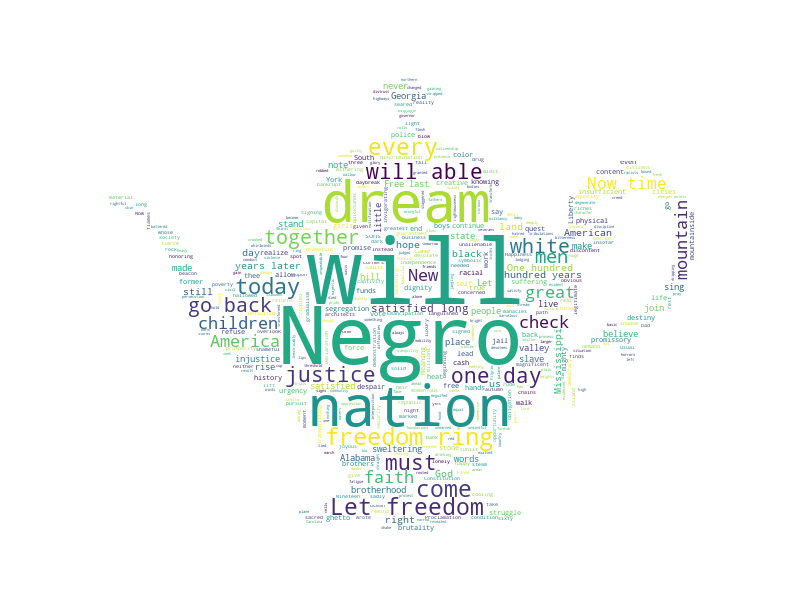
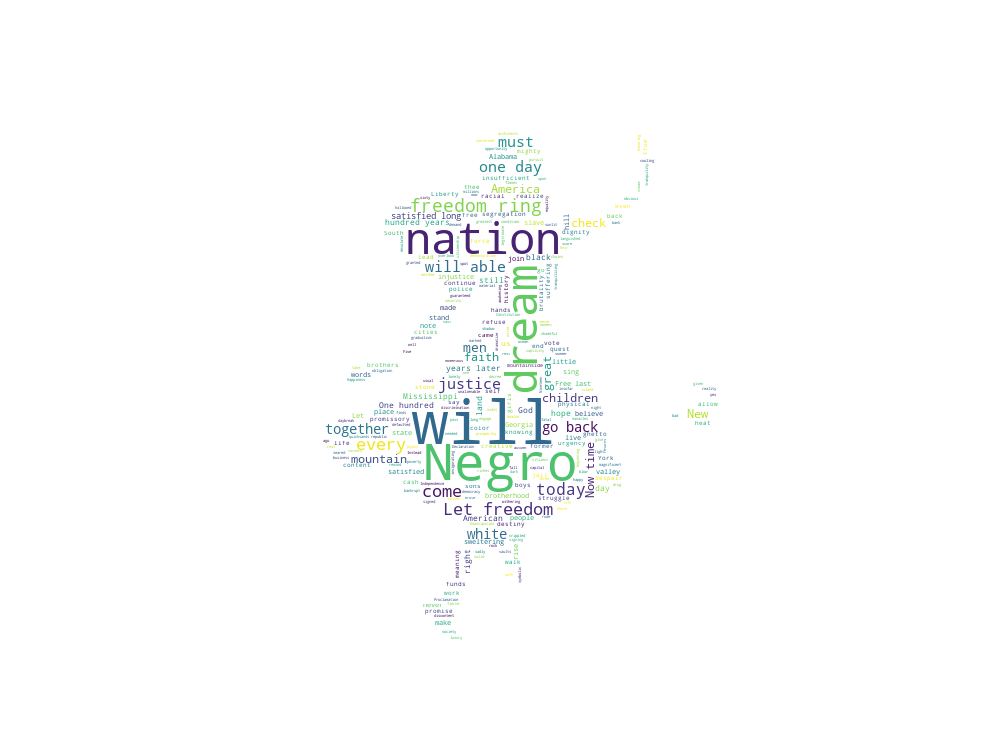
3.2-neat/modif files & folders

diff --git a/SOM.py b/SOM.py
@@ -1,14 +1,65 @@
-import tensorflow as tf
-import numpy as np
+"""
+# TODO: tensorflow 1.x version should be modified to tf2.0
+"""
+# https://stackoverflow.com/questions/37383812/tensorflow-module-object-has-no-attribute-placeholder
 
+import numpy as np
 import matplotlib.pyplot as plt
 
+# if made by tensorflow 1.x version, it can be a temporary solution.
+# import tensorflow as tf
+import tensorflow.compat.v1 as tf
+tf.disable_v2_behavior()
 
+print(__doc__)
+
+def main():
+    #For plotting the images
+    #Training inputs for RGBcolors
+    colors = np.array(
+         [[0., 0., 0.],
+          [0., 0., 1.],
+          [0., 0., 0.5],
+          [0.125, 0.529, 1.0],
+          [0.33, 0.4, 0.67],
+          [0.6, 0.5, 1.0],
+          [0., 1., 0.],
+          [1., 0., 0.],
+          [0., 1., 1.],
+          [1., 0., 1.],
+          [1., 1., 0.],
+          [1., 1., 1.],
+          [.33, .33, .33],
+          [.5, .5, .5],
+          [.66, .66, .66]])
+
+    color_names = ['black', 'blue', 'darkblue', 'skyblue',
+         'greyblue', 'lilac', 'green', 'red',
+         'cyan', 'violet', 'yellow', 'white',
+         'darkgrey', 'mediumgrey', 'lightgrey']
+
+    #Train a 20x30 SOM with 400 iterations
+    som = SOM(20, 30, 3, 400)
+    som.train(colors)
+
+    #Get output grid
+    image_grid = som.get_centroids()
+
+    #Map colours to their closest neurons
+    mapped = som.map_vects(colors)
+
+    #Plot
+    plt.imshow(image_grid)
+    plt.title('Color SOM')
+    for i, m in enumerate(mapped):
+        plt.text(m[1], m[0], color_names[i], ha='center', va='center',
+                 bbox=dict(facecolor='white', alpha=0.5, lw=0))
+    plt.show()
 
 class SOM(object):
     """
-    2-D Self-Organizing Map with Gaussian Neighbourhood function
-    and linearly decreasing learning rate.
+    # 2-D Self-Organizing Map with Gaussian Neighbourhood function
+    # and linearly decreasing learning rate.
     """
 
     #To check if the SOM has been trained
@@ -16,18 +67,18 @@ class SOM(object):
 
     def __init__(self, m, n, dim, n_iterations=100, alpha=None, sigma=None):
         """
-        Initializes all necessary components of the TensorFlow
-        Graph.
-
-        m X n are the dimensions of the SOM. 'n_iterations' should
-        should be an integer denoting the number of iterations undergone
-        while training.
-        'dim' is the dimensionality of the training inputs.
-        'alpha' is a number denoting the initial time(iteration no)-based
-        learning rate. Default value is 0.3
-        'sigma' is the the initial neighbourhood value, denoting
-        the radius of influence of the BMU while training. By default, its
-        taken to be half of max(m, n).
+        # Initializes all necessary components of the TensorFlow
+        # Graph.
+        #
+        # m X n are the dimensions of the SOM. 'n_iterations' should
+        # should be an integer denoting the number of iterations undergone
+        # while training.
+        # 'dim' is the dimensionality of the training inputs.
+        # 'alpha' is a number denoting the initial time(iteration no)-based
+        # learning rate. Default value is 0.3
+        # 'sigma' is the the initial neighbourhood value, denoting
+        # the radius of influence of the BMU while training. By default, its
+        # taken to be half of max(m, n).
         """
 
         #Assign required variables first
@@ -204,45 +255,4 @@ class SOM(object):
 
 
 if __name__ == '__main__':
-    #For plotting the images
-
-    #Training inputs for RGBcolors
-    colors = np.array(
-         [[0., 0., 0.],
-          [0., 0., 1.],
-          [0., 0., 0.5],
-          [0.125, 0.529, 1.0],
-          [0.33, 0.4, 0.67],
-          [0.6, 0.5, 1.0],
-          [0., 1., 0.],
-          [1., 0., 0.],
-          [0., 1., 1.],
-          [1., 0., 1.],
-          [1., 1., 0.],
-          [1., 1., 1.],
-          [.33, .33, .33],
-          [.5, .5, .5],
-          [.66, .66, .66]])
-
-    color_names = ['black', 'blue', 'darkblue', 'skyblue',
-         'greyblue', 'lilac', 'green', 'red',
-         'cyan', 'violet', 'yellow', 'white',
-         'darkgrey', 'mediumgrey', 'lightgrey']
-
-    #Train a 20x30 SOM with 400 iterations
-    som = SOM(20, 30, 3, 400)
-    som.train(colors)
-
-    #Get output grid
-    image_grid = som.get_centroids()
-
-    #Map colours to their closest neurons
-    mapped = som.map_vects(colors)
-
-    #Plot
-    plt.imshow(image_grid)
-    plt.title('Color SOM')
-    for i, m in enumerate(mapped):
-        plt.text(m[1], m[0], color_names[i], ha='center', va='center',
-                 bbox=dict(facecolor='white', alpha=0.5, lw=0))
-    plt.show()
+    main()

diff --git a/word_cloud.py b/word_cloud.py
@@ -2,9 +2,6 @@
 # 워드클라우드 깃허브에 예제로 잘 올라와 있다
 # https://amueller.github.io/word_cloud/auto_examples/masked.html
 """
-print(__doc__)
-
-
 # %matplotlib inline
 import os
 import numpy as np
@@ -13,58 +10,67 @@ import matplotlib.pyplot as plt
 from PIL import Image
 from os import path
 from wordcloud import WordCloud
-from wordcloud import WordCloud, STOPWORDS
+from wordcloud import STOPWORDS
+
+print(__doc__)
+
+filename = "i_have_a_dream.txt"
+image_file = 'mask_alice.png'
+image_result = 'wcloud_result_image.png'
+
+destin_dir = '_statics/_made_static/'
+mask_array = np.array(Image.open(destin_dir + image_file))
+f = open(destin_dir + filename).read()
+
+def main():
+    wcb = get_wordcloud_basic(f)
+    wcm = get_wordcloud_masked(f)
+
+    show_wc(wcb)
+    show_wc(mask_array)
+    show_wc(wcm)
+
+    save_wc_image(wcm, destin_dir+image_result)
+
+def show_wc(image_array, figsize=(8, 4)):
+    """show wordcloud obj. or img_array using imshow()"""
+    plt.figure(figsize=figsize)
+    plt.imshow(image_array, interpolation='bilinear')
+    plt.axis("off")
+    plt.show()
+
+def get_wordcloud_basic(f):
+    """
+    # If you lower the maximum font size, you will get more words
+    # wc = WordCloud(max_font_size=30).generate(f) .... Line.10
+    """
+    global destin_dir, filename
+    wc = WordCloud(max_font_size=60) \
+                .generate(f)
+    wc.words_
+    return wc
+
+def get_wordcloud_masked(f):
+    """ MASKED WORD CLOUD
+    Original Author's Page refer to HERE :
+    https://amueller.github.io/word_cloud/auto_examples/masked.html
+    """
+    # read the mask image taken from
+    # http://www.stencilry.org/stencils/movies/alice%20in%20wonderland/255fk.jpg
+    stopwords = set(STOPWORDS)
+    stopwords.add("said")
+
+    wc = WordCloud(background_color="white",
+                    max_words=2000,
+                    mask=mask_array,
+                    stopwords=stopwords) \
+               .generate(f)
+    return wc
+
+def save_wc_image(wordcloud_object, filename_with_dir):
+    wordcloud_object.to_file(filename_with_dir)
 
 
-FILENAME_WITH_DIR = './_statics/_made_statics/i_have_a_dream.pdb'
 
-f = open(FILENAME_WITH_DIR).read()
-wc = WordCloud(max_font_size=35).generate(f)
-# If you lower the maximum font size, you will get more words
-# wc = WordCloud(max_font_size=30).generate(f) .... Line.10
-
-wc.words_
-
-plt.figure(figsize=(8, 8))
-plt.imshow(wc, interpolation='bilinear')
-plt.axis('off')
-plt.show()
-
-
-""" MASKED WORD CLOUD
-Original Author's Page refer to HERE :
-https://amueller.github.io/word_cloud/auto_examples/masked.html
-"""
-# d = path.dirname(__file__)
-# # Read the whole f.
-# f = open(path.join(d, 'alice.txt')).read()
-
-DESTIN_DIR = './_statics/_made_statics/'
-
-f = open(FILENAME_WITH_DIR).read()
-
-# read the mask image taken from
-# http://www.stencilry.org/stencils/movies/alice%20in%20wonderland/255fk.jpg
-alice_mask = np.array(Image.open(DESTIN_DIR + "mask_teapot.png"))
-
-stopwords = set(STOPWORDS)
-stopwords.add("said")
-
-wc = WordCloud(background_color="white", max_words=2000, mask=alice_mask,
-               stopwords=stopwords)
-
-# generate word cloud
-wc.generate(f)
-
-# store to file
-wc.to_file(DESTIN_DIR + "wcloud_result_image.png")
-
-# show 1
-plt.imshow(wc, interpolation='bilinear')
-plt.axis("off")
-plt.figure()
-
-# show 2
-plt.imshow(alice_mask, cmap=plt.cm.gray, interpolation='bilinear')
-plt.axis("off")
-plt.show()
+if __name__ == '__main__':
+    main()

diff --git a/_assets/configs_global.py b/_assets/configs_global.py
@@ -9,11 +9,27 @@ print(__doc__)
 
 name_top = "deep_MLDL"
 
+# 폴더 구조관련 변수
+dir_top = "deep_MLDL"
+dir_array = os.path.dirname(__file__).partition(dir_top)
+dir_root = "".join(dir_array[:2]) + "\\"
+
+dir_assets = dir_root + "_assets\\"
+dir_statics = dir_root + "_statics\\"
+
+
+
 dir_dict = {
     '_assets' : ['_assets',],
-    '_misc' : ['_miscellaneous',],
     '_statics' : ['_statics',],
 }
+
+def main():
+    dir_top = get_dir_by_name(name_top)
+    print("top :", dir_top)
+    print("_assets :", get_dir(dir_top, dir_dict, "_assets"))
+    print("_statics :", get_dir(dir_top, dir_dict, "_statics"))
+
 
 def get_dir_by_name(name_top):
     """
@@ -21,7 +37,7 @@ def get_dir_by_name(name_top):
     # 사용환경에 따라, 실행기준이 달라지기 때문에
     # 탑레벨을 시스템 path 에 추가한다.
     """
-    dir_array = os.getcwd().partition(name_top)
+    dir_array = os.path.dirname(__file__).partition(name_top)
     dir_by_name = "".join(dir_array[:2])
     return dir_by_name
 
@@ -31,18 +47,6 @@ def join_dir(*dirs_array):
 def get_dir(dir_top, dir_dict, key_name):
     return os.path.join(dir_top, *dir_dict[key_name])
 
-
-
-
-
-def main():
-    dir_top = get_dir_by_name(name_top)
-    print("top :", dir_top)
-
-    print()
-    print("_assets :", get_dir(dir_top, dir_dict, "_assets"))
-    print("_misc :", get_dir(dir_top, dir_dict, "_misc"))
-    print("_statics :", get_dir(dir_top, dir_dict, "_statics"))
 
 if __name__ == '__main__':
     main()

diff --git a/study_gdg/kaggle_pandas.py b/study_gdg/kaggle_pandas.py
@@ -1,0 +1,27 @@
+"""
+# os.getcwd()는 script_run 에서 다른결과를 낸다
+# __file__ = 현재위치는 __file__에서 추출하는게 좋다.
+"""
+import os, sys
+sys.path.insert(0, os.path.abspath(".."))
+
+[print(path) for path in sys.path]
+quit()
+
+import numpy as np          # linear algebra
+import pandas as pd         # data processing, CSV file I/O (e.g. pd.read_csv)
+
+import _assets.configs_global
+
+print(__doc__)
+
+# print(DIRS)               # for TEST.
+print(ROOT_DIR + "_statics")
+
+# 화일을 소팅한다.
+
+for i, filename in enumerate(os.listdir(ROOT_DIR + "_assets")):
+    print(f"{i+1:02}. {filename}")
+
+
+print(na)

diff --git a/study_gdg/sklearn_confusion_matrix.py b/study_gdg/sklearn_confusion_matrix.py
@@ -11,10 +11,8 @@ print(__doc__)
 # Author: Gael Varoquaux <gael dot varoquaux at normalesup dot org>
 # License: BSD 3 clause
 
-# Standard scientific Python imports
-import matplotlib.pyplot as plt
 
-# Import datasets, classifiers and performance metrics
+import matplotlib.pyplot as plt
 from sklearn import datasets, svm, metrics
 
 # The digits dataset
